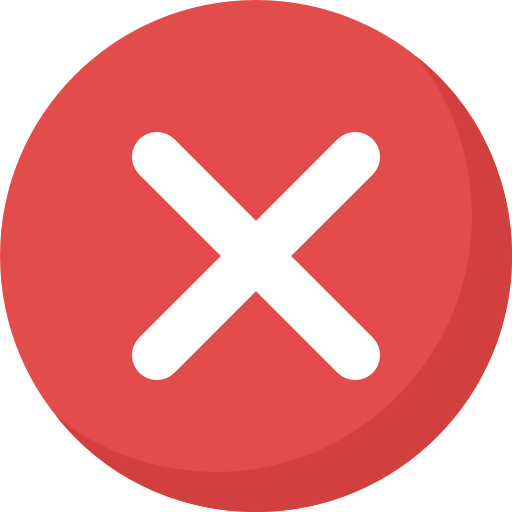
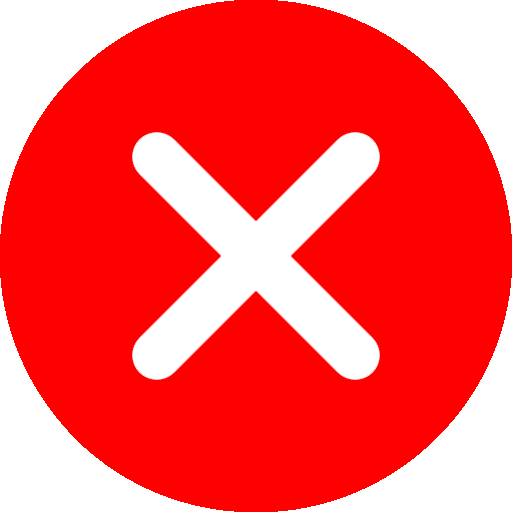
Colors Fixed

diff --git a/app.js b/app.js
@@ -169,6 +169,21 @@ function getMovies(url) {
         prevPage = currentPage - 1;
         totalPages = data.total_pages;
 
+        current.innerText = currentPage;
+
+        if (currentPage <= 1) {
+          prev.classList.add("disabled");
+          next.classList.remove("disabled");
+        } else if (currentPage >= totalPages) {
+          prev.classList.remove("disabled");
+          next.classList.add("disabled");
+        } else {
+          prev.classList.remove("disabled");
+          next.classList.remove("disabled");
+        }
+
+        window.scroll({ top: 0, left: 0, behavior: "smooth" });
+
         //
       } else {
         main.innerHTML = `<div class="emptyContainer">
@@ -235,6 +250,12 @@ form.addEventListener("submit", (e) => {
     searchInput.value = "";
   } else {
     window.location.reload();
+  }
+});
+
+prev.addEventListener("click", () => {
+  if (prevPage > 0) {
+    pageCall(prevPage);
   }
 });
 

diff --git a/styles/style.css b/styles/style.css
@@ -177,7 +177,7 @@ input:focus {
 
 .tag {
   padding: 10px 30px;
-  background: red;
+  background: #7378c5;
   border: none;
   outline: none;
   margin-right: 10px;
@@ -235,7 +235,7 @@ input:focus {
 }
 
 .page {
-  margin: 0 20px 20px 20px;
+  margin: 0 35px 20px 35px;
   color: #000;
   cursor: pointer;
 }
@@ -251,5 +251,5 @@ input:focus {
 .current {
   margin-bottom: 20px;
   color: #fff;
-  font-size: 30px;
+  font-size: 25px;
 }

diff --git a/index.html b/index.html
@@ -39,7 +39,7 @@
 
     <main id="main" class="movieSection"></main>
     <div class="pagination">
-      <div class="page disabled" id="prev">
+      <div class="page" id="prev">
         <img src="./img/left-arrow.png" alt="" />
       </div>
       <div class="current" id="current">1</div>
